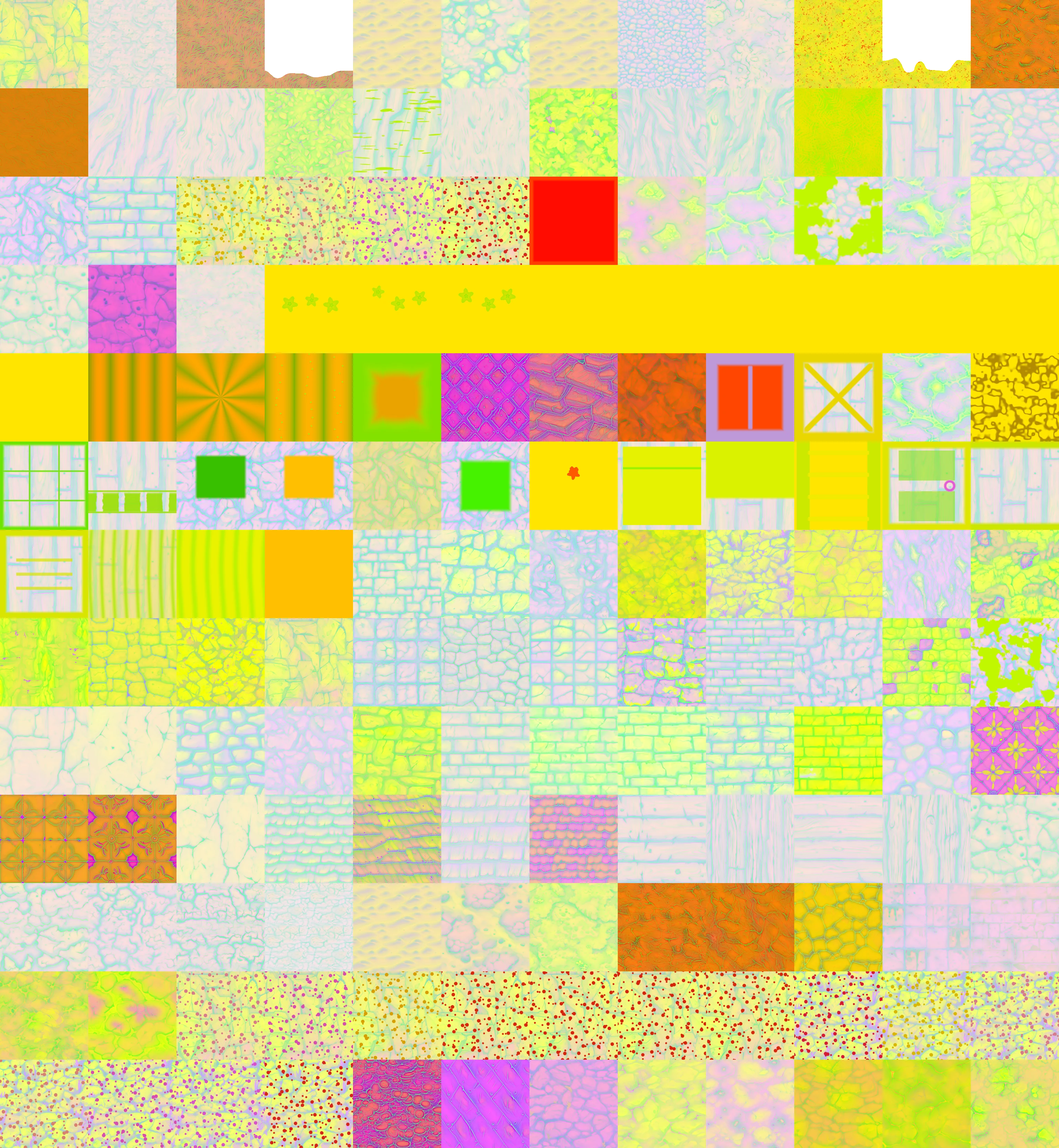
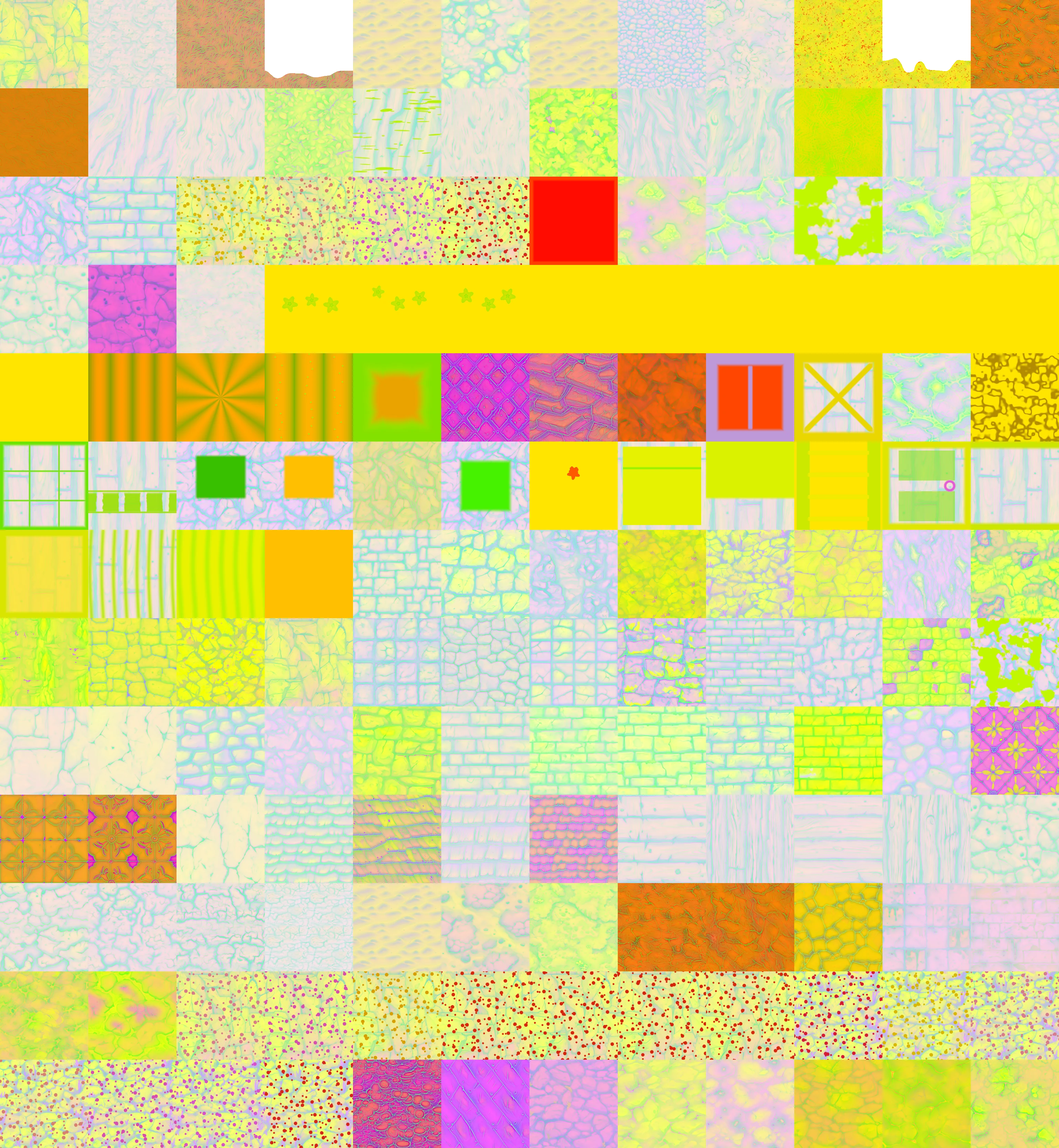
Let the writing on a sign win against the board it is cut into.
Two texture faults from one report: signs whose message was barely readable,
and fences that read as very red.

The sign tile still carried three ruled lines "suggesting writing", drawn back
when actual letters were thought unaffordable. They are not unaffordable any
more — SignText.js draws the player's own words over this tile — so the rules
had become noise directly behind the message, the middle one landing on v 0.5,
which is exactly where the first line of a two-line sign is written. Under them
the plank's own grain and board seams were louder than the ink.

Measured on a written sign read at two cells, differencing the frame against
the same frame with the glyph mesh hidden so the mask is exact: the ink stood
31 counts of luminance clear of the plank behind it while the panel swung
20..91 (sd 26.0) on its own — ink over grain, 1.19. The rules are gone and the
panel is washed 68% back toward the plank's own baked mean of 150,89,63, which
moves the board's colour and hue by nothing at all and takes the grain, the
seams and the relief down together, since the baker blends normal and arm
through a decal's alpha along with albedo. The panel now swings 50..79
(sd 10.1) and ink over grain is 3.05. A wash of 0.55 was tried first and left
39..80, still half again the ink's own contrast.

The fence grain was a stain rather than a grain: 35% coverage everywhere and
85% in the dark lines, in a colour twice as dark as the plank under it. That
[…]

Changed region(s): [[0.0, 0.4375, 0.1875, 0.5625]]

diff --git a/src/render/TextureGen.js b/src/render/TextureGen.js
@@ -322,12 +322,29 @@ G.fence = (s) => {
   // box, so whatever is here gets cropped to a narrow strip at an offset it
   // cannot predict. Anything with a border or a centred feature would land
   // half-on. Uniform grain crops to more grain wherever it is cut.
+  //
+  // The grain used to be a stain rather than a grain. It went down at 35%
+  // coverage everywhere and 85% in the dark lines, in a colour twice as dark as
+  // the plank under it, which pulled the whole tile to 105.5,65.8,42.7 against
+  // planks' 150.2,89.7,63.0 — the darkest timber in the game bar the deliberate
+  // `planks_dark`, darker even than an oak log, and darkest of all on a fence's
+  // thin posts where the geometry's own occlusion takes another cut. Shot
+  // against a plank wall in the same frame, a fence run measured luminance 39.0
+  // and saturation 0.79 to the wall's 64.3 and 0.72. A dark, saturated warm
+  // brown is what "the fences are very red" looks like: the hue was never the
+  // outlier (17.1 against the wall's 15.5), the value and the saturation were.
+  //
+  // So the grain lines keep their darkness and the timber between them is bare
+  // plank: coverage now runs from nothing up to 85% instead of from 35% up.
+  // Same frame after: 57.3 and 0.714 against the wall's 72.0 and 0.702, and the
+  // tile 126.3,76.0,52.0 — between `door` and `bench_side`, where a fence
+  // belongs, instead of below an oak log.
   clearAlpha(s);
   s.each((i, x, y, u, v) => {
     const g = Math.sin(u * 47.1 + Math.sin(v * 3.3) * 0.8) * 0.5 + 0.5;
     const streak = Math.pow(g, 3);
-    const m = 0.35 + streak * 0.5;
-    setRGB(s, i, px([74 - streak * 18, 52 - streak * 14, 30 - streak * 9]));
+    const m = streak * 0.85;
+    setRGB(s, i, px([92 - streak * 30, 60 - streak * 20, 37 - streak * 13]));
     s.a[i] = m;
     // The grain is cut into the timber, so the dark lines sit low.
     s.h[i] = 0.85 - streak * 0.6;
@@ -338,26 +355,58 @@ G.fence = (s) => {
   return s;
 };
 
+// The plank mean this tile washes its panel back toward. `planks` bakes to
+// 150,89,63 and the note over `log_oak` in bake-textures.mjs records that it is
+// the one plank tile deliberately left alone precisely because eight blocks
+// composite over it, so this number is safe to write down here.
+const SIGN_PLANK = px([150, 89, 63]);
+/**
+ * How far the writing panel is washed back toward that mean. Because the wash
+ * IS the base's own mean, the panel's colour and hue do not move at all — only
+ * its spread, which falls by (1 - WASH)^2.
+ *
+ * 0.55 was tried first and left the plank swinging 39..80 behind the letters,
+ * which is still half again the 28 counts the ink itself carries. 0.68 takes it
+ * to 50..79 (sd 10.1) and the board still reads as timber in the shot: the
+ * grain and a knot survive, planed rather than sanded off.
+ */
+const SIGN_WASH = 0.68;
+
 G.sign = (s) => {
-  // A framed board with three ruled lines suggesting writing. Actual letters
-  // would be unreadable at this size and wrong for every sign but one, so this
-  // says "there are words here" and the hint line says what they are.
+  // A planed board in a frame, and nothing else on it.
+  //
+  // This used to carry three ruled lines "suggesting writing", on the grounds
+  // that "actual letters would be unreadable at this size". That is no longer
+  // true: SignText.js draws the player's own words over this tile, so the rules
+  // sat directly behind the message — the middle one lands on v 0.5, which is
+  // where the first line of a two-line sign is written — and the board's own
+  // grain was the loudest thing on it.
+  //
+  // Measured on a written sign read at two cells, differenced against the same
+  // frame with the glyph mesh hidden so the mask is exact: the ink carried 31
+  // counts of luminance against the plank behind it, while the panel swung
+  // 20..91 (sd 26.0) on its own. The letters were quieter than the wood they
+  // were cut into. Afterwards the panel swings 50..79 (sd 10.1) and the ink
+  // stands 31 counts clear of it — ink over grain goes 1.19 to 3.05.
+  //
+  // So the panel is washed toward the plank's own mean. That keeps the board's
+  // colour and hue exactly where they were and takes the grain, the board seams
+  // and the relief down with the same stroke, because the baker blends normal
+  // and arm through the decal's alpha along with albedo.
   clearAlpha(s);
   s.each((i, x, y, u, v) => {
     const border = Math.min(u, 1 - u, v, 1 - v);
     const frame = smoothstep(0.09, 0.05, border);
-    // Three ruled lines, inset from the frame.
-    const inset = u > 0.18 && u < 0.82;
-    let rule = 0;
-    for (const ly of [0.34, 0.5, 0.66]) {
-      rule = Math.max(rule, smoothstep(0.022, 0.012, Math.abs(v - ly)) * (inset ? 1 : 0));
-    }
-    const m = Math.max(frame, rule * 0.7);
+    // Everything the frame does not claim is writing surface.
+    const wash = (1 - frame) * SIGN_WASH;
+    const m = frame + wash;
     if (m <= 0.004) return;
-    setRGB(s, i, rule > frame ? px([96, 74, 48]) : px([78, 52, 28]));
+    setRGB(s, i, mixc(px([78, 52, 28]), SIGN_PLANK, wash / m));
     s.a[i] = m;
-    s.h[i] = rule > frame ? 0.3 : 0.95;
-    s.ao[i] = 0.85;
+    // Flat panel, frame proud of it: a board with an edge, not a board with a
+    // pattern pressed into it.
+    s.h[i] = 0.55 + frame * 0.40;
+    s.ao[i] = 1 - frame * 0.15;
     s.rough[i] = 0.9;
   });
   s.normalStrength = 1.8;
